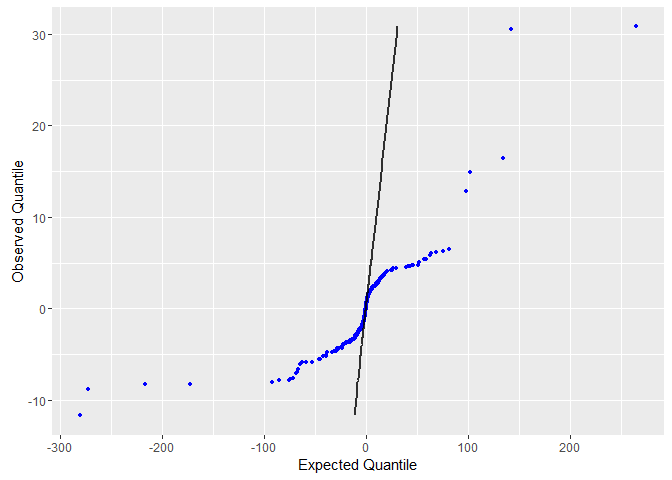
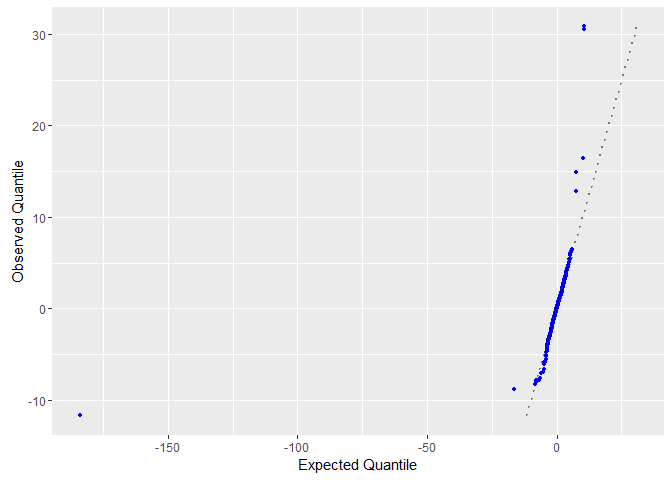
Corrections in the qq-plot.

diff --git a/Expression_data/quantitative_proteomics.md b/Expression_data/quantitative_proteomics.md
@@ -369,14 +369,14 @@ QQ Plot
 We will now see whether the t-test statistics actually follow a t-distribution. This is achieved by drawing a quantile-quantile plot (qq-plot).
 
 ``` r
-expectedQuantiles <- rt(length(validProteinGroupsRatios$tTestStatistic), df=1)
+expectedQuantiles <- rt(length(validProteinGroupsRatios$tTestStatistic), df=5-2)
 expectedQuantiles <- sort(expectedQuantiles)
 measuredQuantiles <- validProteinGroupsRatios$tTestStatistic
 measuredQuantiles <- sort(measuredQuantiles)
 
 qqPlot <- ggplot()
 qqPlot <- qqPlot + geom_point(aes(x=expectedQuantiles, y=measuredQuantiles), size = 1, col = "blue")
-qqPlot <- qqPlot + geom_line(aes(x=measuredQuantiles, y=measuredQuantiles), size = 1, alpha = 0.8)
+qqPlot <- qqPlot + geom_line(aes(x=measuredQuantiles, y=measuredQuantiles), size = 1, alpha = 0.5, linetype = "dotted")
 qqPlot <- qqPlot + xlab("Expected Quantile")
 qqPlot <- qqPlot + ylab("Observed Quantile")
 plot(qqPlot)
